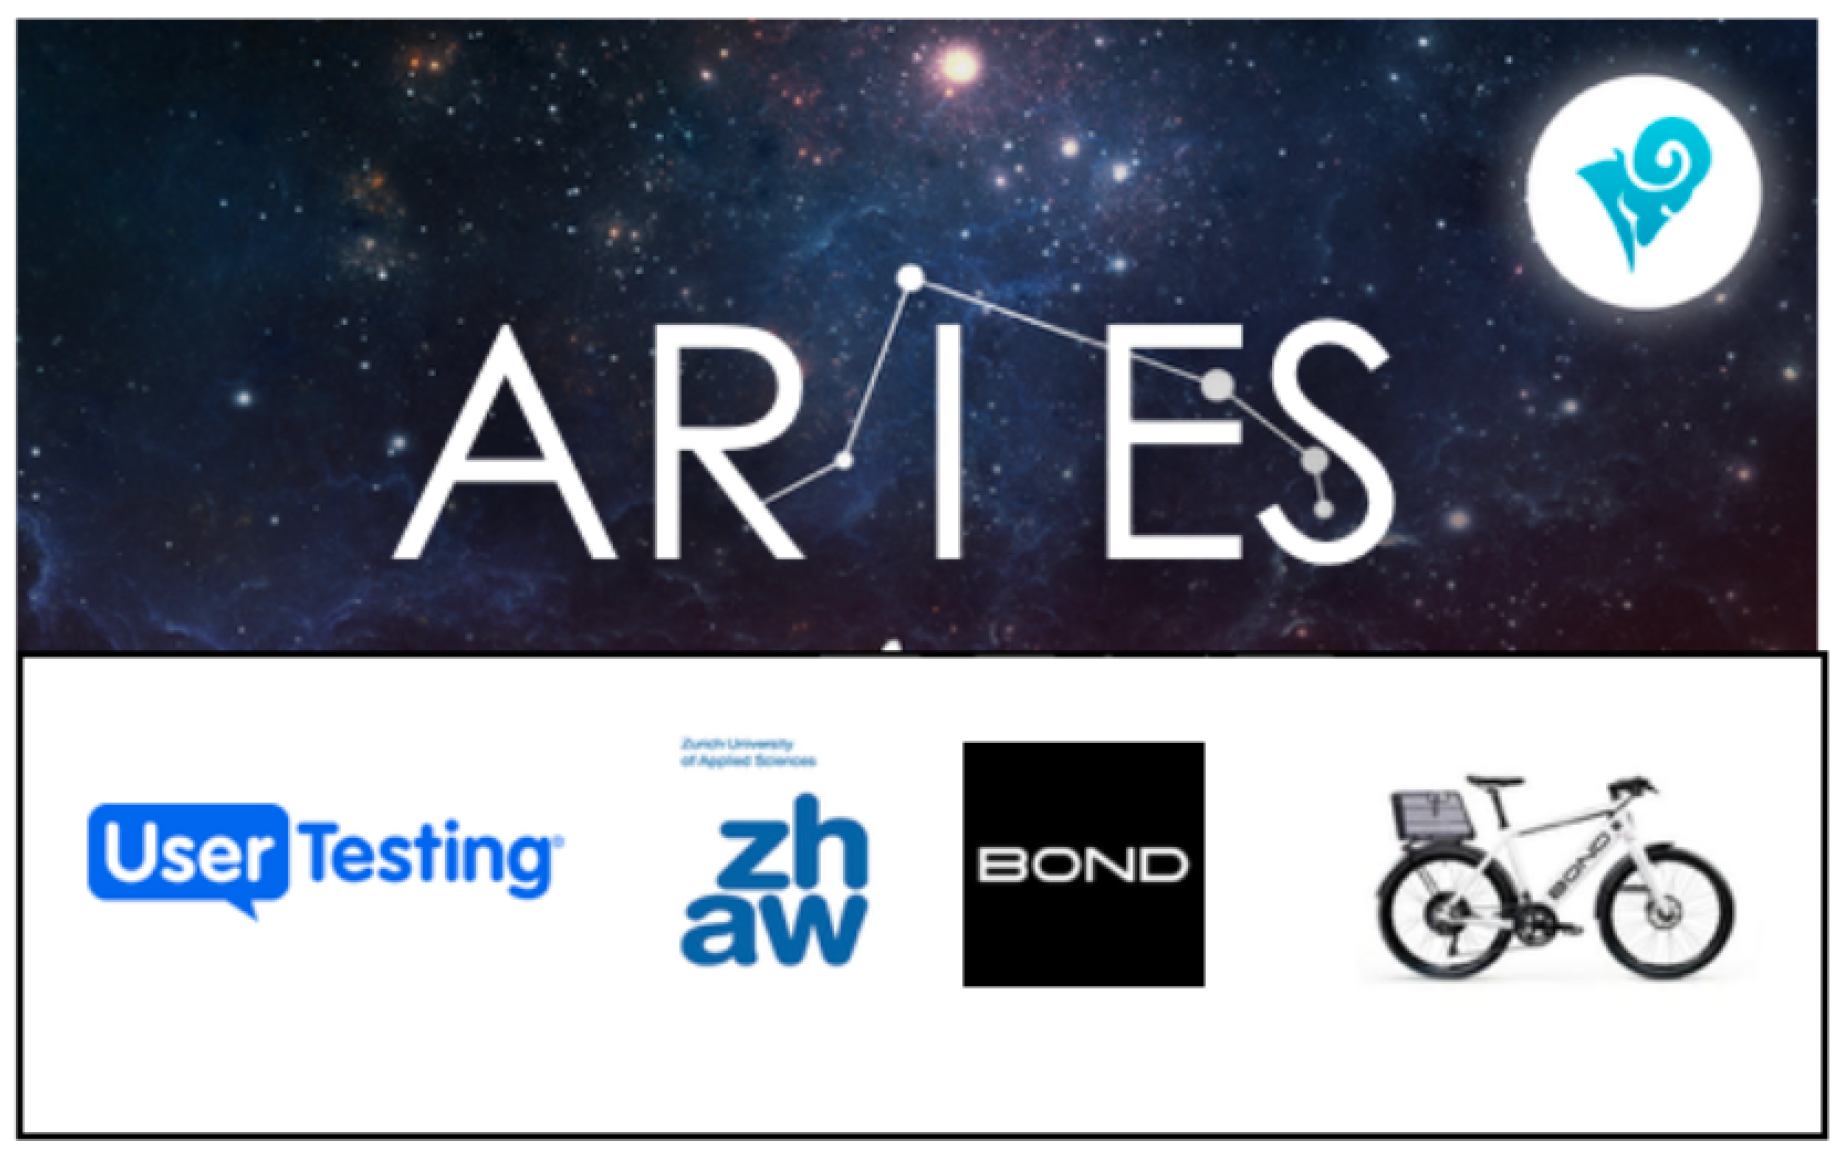
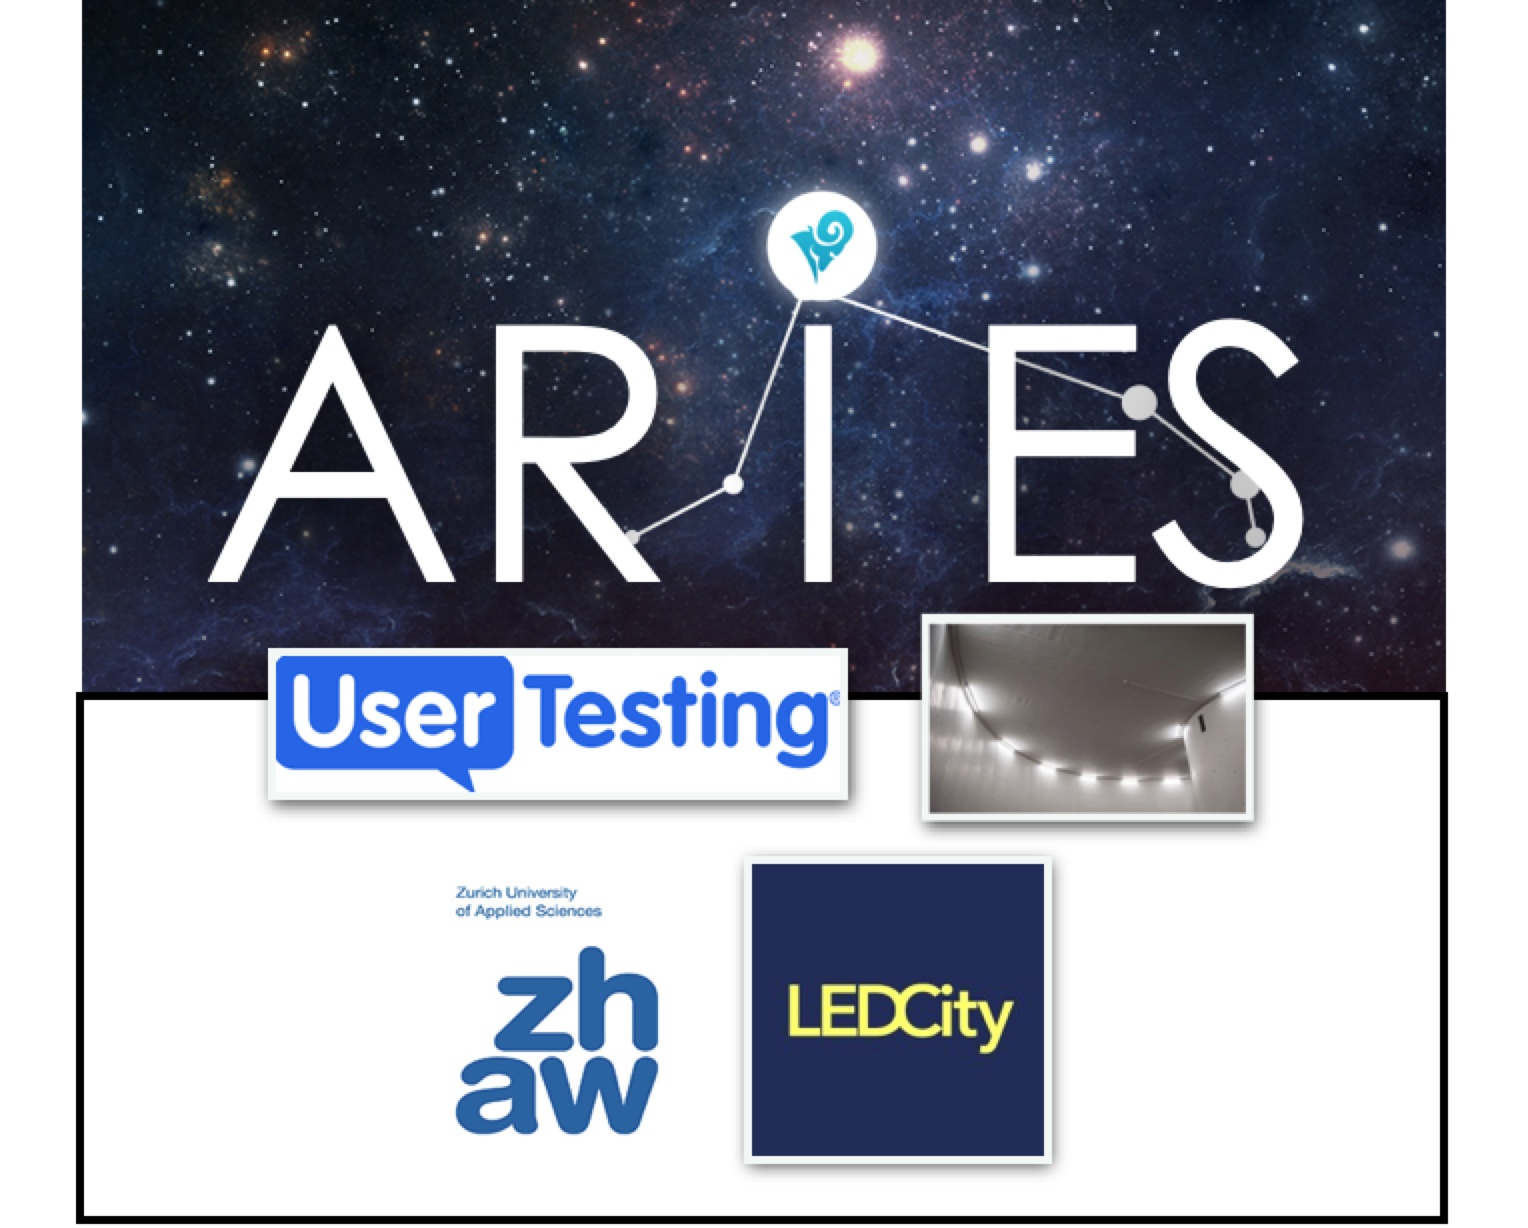
updated projects and companies

diff --git a/index.html b/index.html
@@ -474,9 +474,10 @@ He <a href="https://spanichella.github.io/index.html#teaching">supervised (or co
         <article id="students" class="panel">
 								<header>
 									<table class="default" style="font-size:11px; color:black;"> 
+									<tr style="background-color:#f2f2f2"><td><a href="">LEDCity - (AI-based optimization of lighting systems)  </a></td><td>Switzerland </td><td>2021-12-Today</td></tr>
 									<tr style=""><td><a href="">BeamNG </a></td><td>Germany</td><td>2020-06-Today</td></tr>
 									<tr style="background-color:#f2f2f2"><td><a href="">Atos - (Autonomous vehicles)  </a></td><td>Spain </td><td>2020-02-Today</td></tr>
-									<tr style=""><td><a href="">BOND </a></td><td>Switzerland</td><td>2019-10-Today</td></tr>
+									<tr style=""><td><a href="">BOND </a></td><td>Switzerland</td><td>2019-10- till 2021</td></tr>
 									<tr style="background-color:#f2f2f2"><td><a href="https://helio.exchange/">Helio </a></td><td>Switzerland</td><td>2019-10-Today</td></tr>
 									<tr style=""><td><a href="">Siemens AG and Siemens Healthcare GmbH </a></td><td>Germany</td><td>2019-05-Today</td></tr>
 									<tr style="background-color:#f2f2f2"><td><a href="">Intelligentia S.r.l.</a></td><td>Italy</td><td>2020-01-Today</td></tr>
@@ -2634,18 +2635,16 @@ technologies within heavily regulated sectors where there is an increasing need 
 	
 	
 Sebastiano Panichella wrote an Innosuisse project proposal (as <b>main research responsible </b>) to the Innosuisse grant program,
- <i>"ARIES: Exploiting User Journeys for Supporting Mobility as a Service Platforms"</i> (project Nr. 45548.1 IP-ICT). </br>
+ <i>"ARIES: Exploiting User Journeys and Testing Automation for Supporting Efficient Energy Service Platforms"</i> (project Nr. 45548.1 IP-ICT). </br>
 
-ARIES brings together a consortium of two partners: the start-up BOND (https://bond.info/en/) and the ZHAW. </br>
+ARIES brings together a consortium of two partners: the start-up LEDCity (https://ledcity.io/) and the ZHAW. </br>
 
-ARIES project will deliver a user-oriented self-adaptive
-software platform that implements requirements and
-testing engineering mechanisms to enhance customer
-experience. ARIES project will be realized in the context
-of BOND, a Swiss e-bike sharing start-up.
+ARIES project delivers a data oriented and software platform that implements requirements and testing engineering mechanisms to enhance customer experience.
+ ARIES project  is realized in the context of LEDCity, a Swiss start-up specialized in AI-based optimization of lighting systems.
+
 </br>
 <b>Total project 1 MIL CHF (working hours allocated to it), Sebastiano Panichella got direct funding for around 500,000 CHF</b></br>
-<b>Ack:</b> We personally thank the team of bond for the very productive and constant research meetings. 
+<b>Ack:</b> We personally thank the team of LEDCity for the very productive and constant research meetings. 
 </br>
 <b>Project Link:</b> https://www.aries-devops.ch/index.html
 </p>
